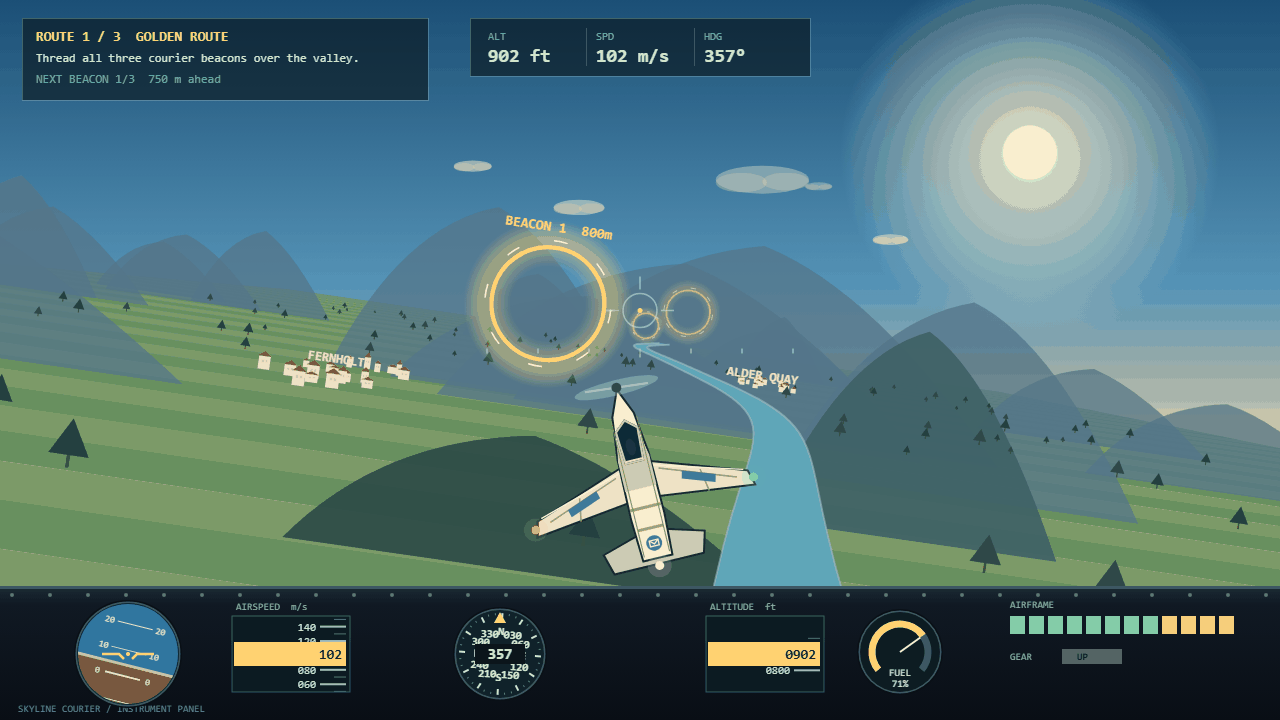
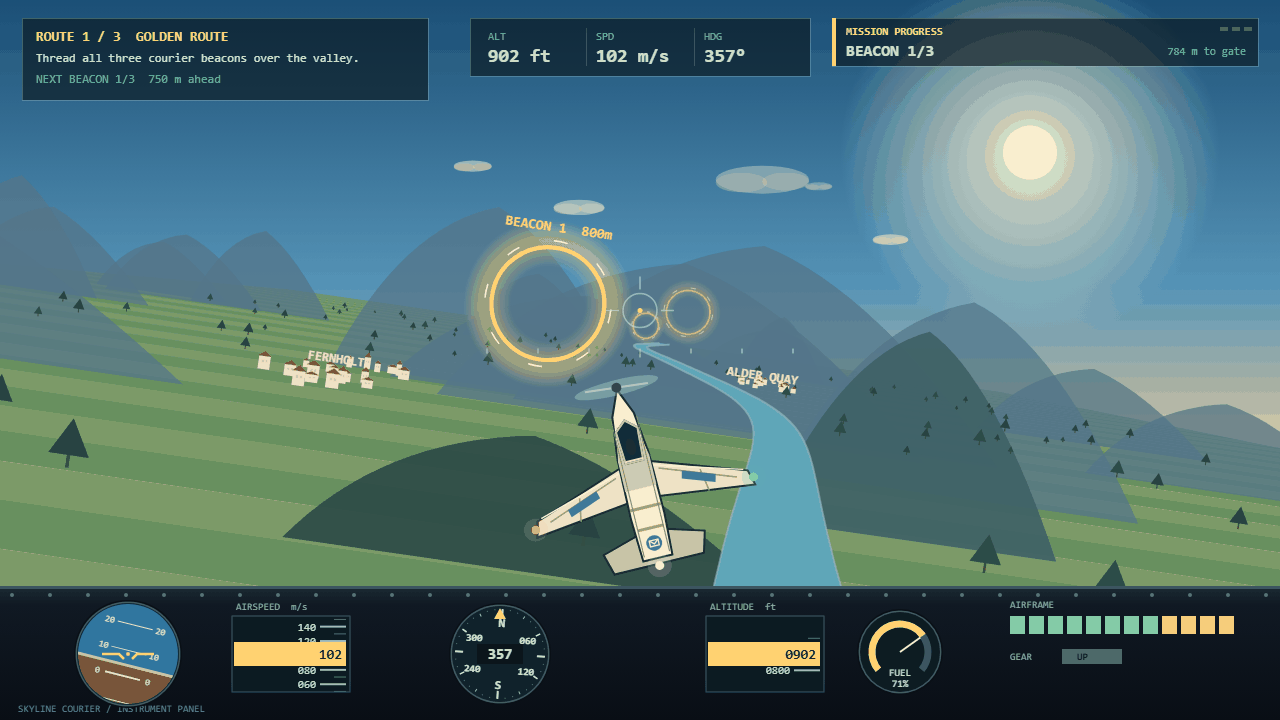
Flight game v2: compass labels and mission cue

Changed region(s): [[0.625, 0.0, 1.0, 0.0917], [0.3438, 0.825, 0.4375, 0.9778]]

diff --git a/game/src/main.js b/game/src/main.js
@@ -1,6 +1,6 @@
 // Skyline Courier - boot, fixed-step loop and module wiring.
-import { CANVAS, STEP } from './config.js';
-import { createState, resetFlight, setMission } from './state.js';
+import { CANVAS, MISSIONS, PALETTE, STEP, WORLD } from './config.js';
+import { createState, currentRing, resetFlight, setMission } from './state.js';
 import { updateFlight } from './physics.js';
 import { createInput, readInput } from './input.js';
 import { drawSky, drawTerrain, drawRunway, drawTargetRings, makeView } from './scenery.js';
@@ -25,6 +25,58 @@ function applyControls(controls) {
   updateFlight(state, controls, STEP);
 }
 
+// A compact progress strip in the clear top-right sky, derived only from state.
+function drawMissionStrip(ctx, state) {
+  const mission = MISSIONS[state.missionIndex];
+  const p = state.plane;
+  let label = '';
+  let detail = '';
+  let filled = 0;
+  let total = 1;
+  if (mission.kind === 'rings') {
+    const ring = currentRing(state);
+    total = WORLD.rings.length;
+    filled = state.mission.ringsPassed;
+    label = `BEACON ${Math.min(filled + 1, total)}/${total}`;
+    detail = ring ? `${Math.round(Math.hypot(ring.x - p.x, ring.z - p.z))} m to gate` : 'ROUTE COMPLETE';
+  } else if (mission.kind === 'landing') {
+    label = `RUNWAY 09 · ${Math.max(0, Math.round(p.z - WORLD.runway.z0))} m`;
+    detail = p.gear ? (Math.abs(p.x) < WORLD.runway.width / 2 ? 'GEAR DOWN · CENTRELINE' : 'GEAR DOWN · CORRECT LEFT/RIGHT') : 'GEAR UP · SELECT DOWN';
+    filled = p.gear ? 1 : 0;
+  } else {
+    const stop = WORLD.towns[1];
+    const distance = Math.round(Math.hypot(p.x - stop.x, p.z - stop.z));
+    label = state.mission.townReached ? `RETURN · ${distance} m` : `ALDER QUAY · ${distance} m`;
+    detail = state.mission.townReached ? 'LAND AT SKYLINE FIELD' : 'OUTBOUND MAIL RUN';
+    total = 2;
+    filled = state.mission.townReached ? 1 : 0;
+  }
+  const x = 832, y = 18, w = 426, h = 48;
+  ctx.fillStyle = 'rgba(8, 20, 25, 0.62)';
+  ctx.fillRect(x, y, w, h);
+  ctx.strokeStyle = 'rgba(150, 220, 185, 0.35)';
+  ctx.lineWidth = 1;
+  ctx.strokeRect(x + 0.5, y + 0.5, w, h);
+  ctx.fillStyle = PALETTE.gold;
+  ctx.fillRect(x, y, 4, h);
+  for (let i = 0; i < total; i++) {
+    ctx.globalAlpha = i < filled ? 1 : 0.28;
+    ctx.fillRect(x + w - 14 - i * 12, y + 9, 8, 4);
+  }
+  ctx.globalAlpha = 1;
+  ctx.textAlign = 'left';
+  ctx.fillStyle = PALETTE.gold;
+  ctx.font = 'bold 11px ui-monospace, monospace';
+  ctx.fillText('MISSION PROGRESS', x + 14, y + 17);
+  ctx.fillStyle = PALETTE.hud;
+  ctx.font = 'bold 16px ui-monospace, monospace';
+  ctx.fillText(label, x + 14, y + 38);
+  ctx.textAlign = 'right';
+  ctx.fillStyle = PALETTE.hudDim;
+  ctx.font = '11px ui-monospace, monospace';
+  ctx.fillText(detail, x + w - 12, y + 37);
+}
+
 export function render() {
   ctx.setTransform(1, 0, 0, 1, 0, 0);
   ctx.clearRect(0, 0, CANVAS.W, CANVAS.H);
@@ -41,6 +93,7 @@ export function render() {
   drawAircraft(ctx, state, view);
   drawPanel(ctx, state);
   drawHUD(ctx, state, view);
+  drawMissionStrip(ctx, state);
 }
 
 let lastFrame = 0;

diff --git a/game/src/instruments.js b/game/src/instruments.js
@@ -92,6 +92,7 @@ function drawTape(ctx, x, y, w, h, value, step, pixelsPerUnit, label, format) {
   ctx.strokeRect(x, y, w, h);
 }
 
+// Six labels at 60 degrees keep every heading readable inside the bezel.
 function drawCompass(ctx, state, x, y, r) {
   const heading = (wrapAngle(state.plane.hdg) * 180 / Math.PI + 360) % 360;
   bezel(ctx, x, y, r, '#10222b');
@@ -99,24 +100,27 @@ function drawCompass(ctx, state, x, y, r) {
   ctx.beginPath(); ctx.arc(x, y, r - 2, 0, Math.PI * 2); ctx.clip();
   ctx.translate(x, y);
   ctx.rotate(-heading * Math.PI / 180);
-  const marks = ['N', '030', '060', 'E', '120', '150', 'S', '210', '240', 'W', '300', '330'];
+  const marks = ['N', '060', '120', 'S', '240', '300'];
   for (let i = 0; i < 36; i++) {
     const a = i * Math.PI / 18;
-    const major = i % 3 === 0;
-    const rr = r - (major ? 9 : 5);
-    ctx.strokeStyle = major ? '#c8e7d2' : '#5a8a7c';
-    ctx.lineWidth = major ? 2 : 1;
+    const cardinal = i % 9 === 0;
+    const major = i % 6 === 0;
+    const medium = i % 3 === 0;
+    const rr = r - (cardinal ? 11 : major ? 8 : medium ? 6 : 4);
+    ctx.strokeStyle = cardinal ? '#d8f0dc' : major ? '#c8e7d2' : medium ? '#9fc9b4' : '#5a8a7c';
+    ctx.lineWidth = cardinal ? 2 : major ? 1.6 : 1;
     ctx.beginPath();
     ctx.moveTo(Math.sin(a) * rr, -Math.cos(a) * rr);
     ctx.lineTo(Math.sin(a) * (r - 3), -Math.cos(a) * (r - 3));
     ctx.stroke();
   }
   ctx.fillStyle = '#d8f0dc';
-  ctx.font = 'bold 11px ui-monospace, monospace';
   ctx.textAlign = 'center';
   for (let i = 0; i < marks.length; i++) {
-    const a = i * Math.PI / 6;
-    ctx.fillText(marks[i], Math.sin(a) * (r - 21), -Math.cos(a) * (r - 21) + 4);
+    const a = i * Math.PI / 3;
+    const label = marks[i];
+    ctx.font = label.length === 1 ? 'bold 12px ui-monospace, monospace' : 'bold 10px ui-monospace, monospace';
+    ctx.fillText(label, Math.sin(a) * (r - 17), -Math.cos(a) * (r - 17) + 4);
   }
   ctx.restore();
   ctx.fillStyle = PALETTE.gold;
@@ -124,7 +128,7 @@ function drawCompass(ctx, state, x, y, r) {
   ctx.moveTo(x, y - r + 2); ctx.lineTo(x - 6, y - r + 13); ctx.lineTo(x + 6, y - r + 13);
   ctx.closePath(); ctx.fill();
   ctx.fillStyle = '#0a151b';
-  ctx.fillRect(x - 25, y - 10, 50, 20);
+  ctx.fillRect(x - 23, y - 10, 46, 20);
   ctx.fillStyle = PALETTE.hud;
   ctx.font = 'bold 15px ui-monospace, monospace';
   ctx.textAlign = 'center';
@@ -195,7 +199,7 @@ export function drawPanel(ctx, state) {
   drawAttitude(ctx, state, 128, 654, 51);
   drawTape(ctx, 232, 616, 118, 76, state.plane.spd, 10, 0.72, 'AIRSPEED  m/s', (v) => String(Math.round(v)).padStart(3, '0'));
   drawTape(ctx, 706, 616, 118, 76, clamp(state.plane.y * 3.28, 0, 9999), 200, 0.16, 'ALTITUDE  ft', (v) => String(Math.round(v)).padStart(4, '0'));
-  drawCompass(ctx, state, 500, 654, 44);
+  drawCompass(ctx, state, 500, 654, 48);
   drawFuelAndDamage(ctx, state);
 }
 
